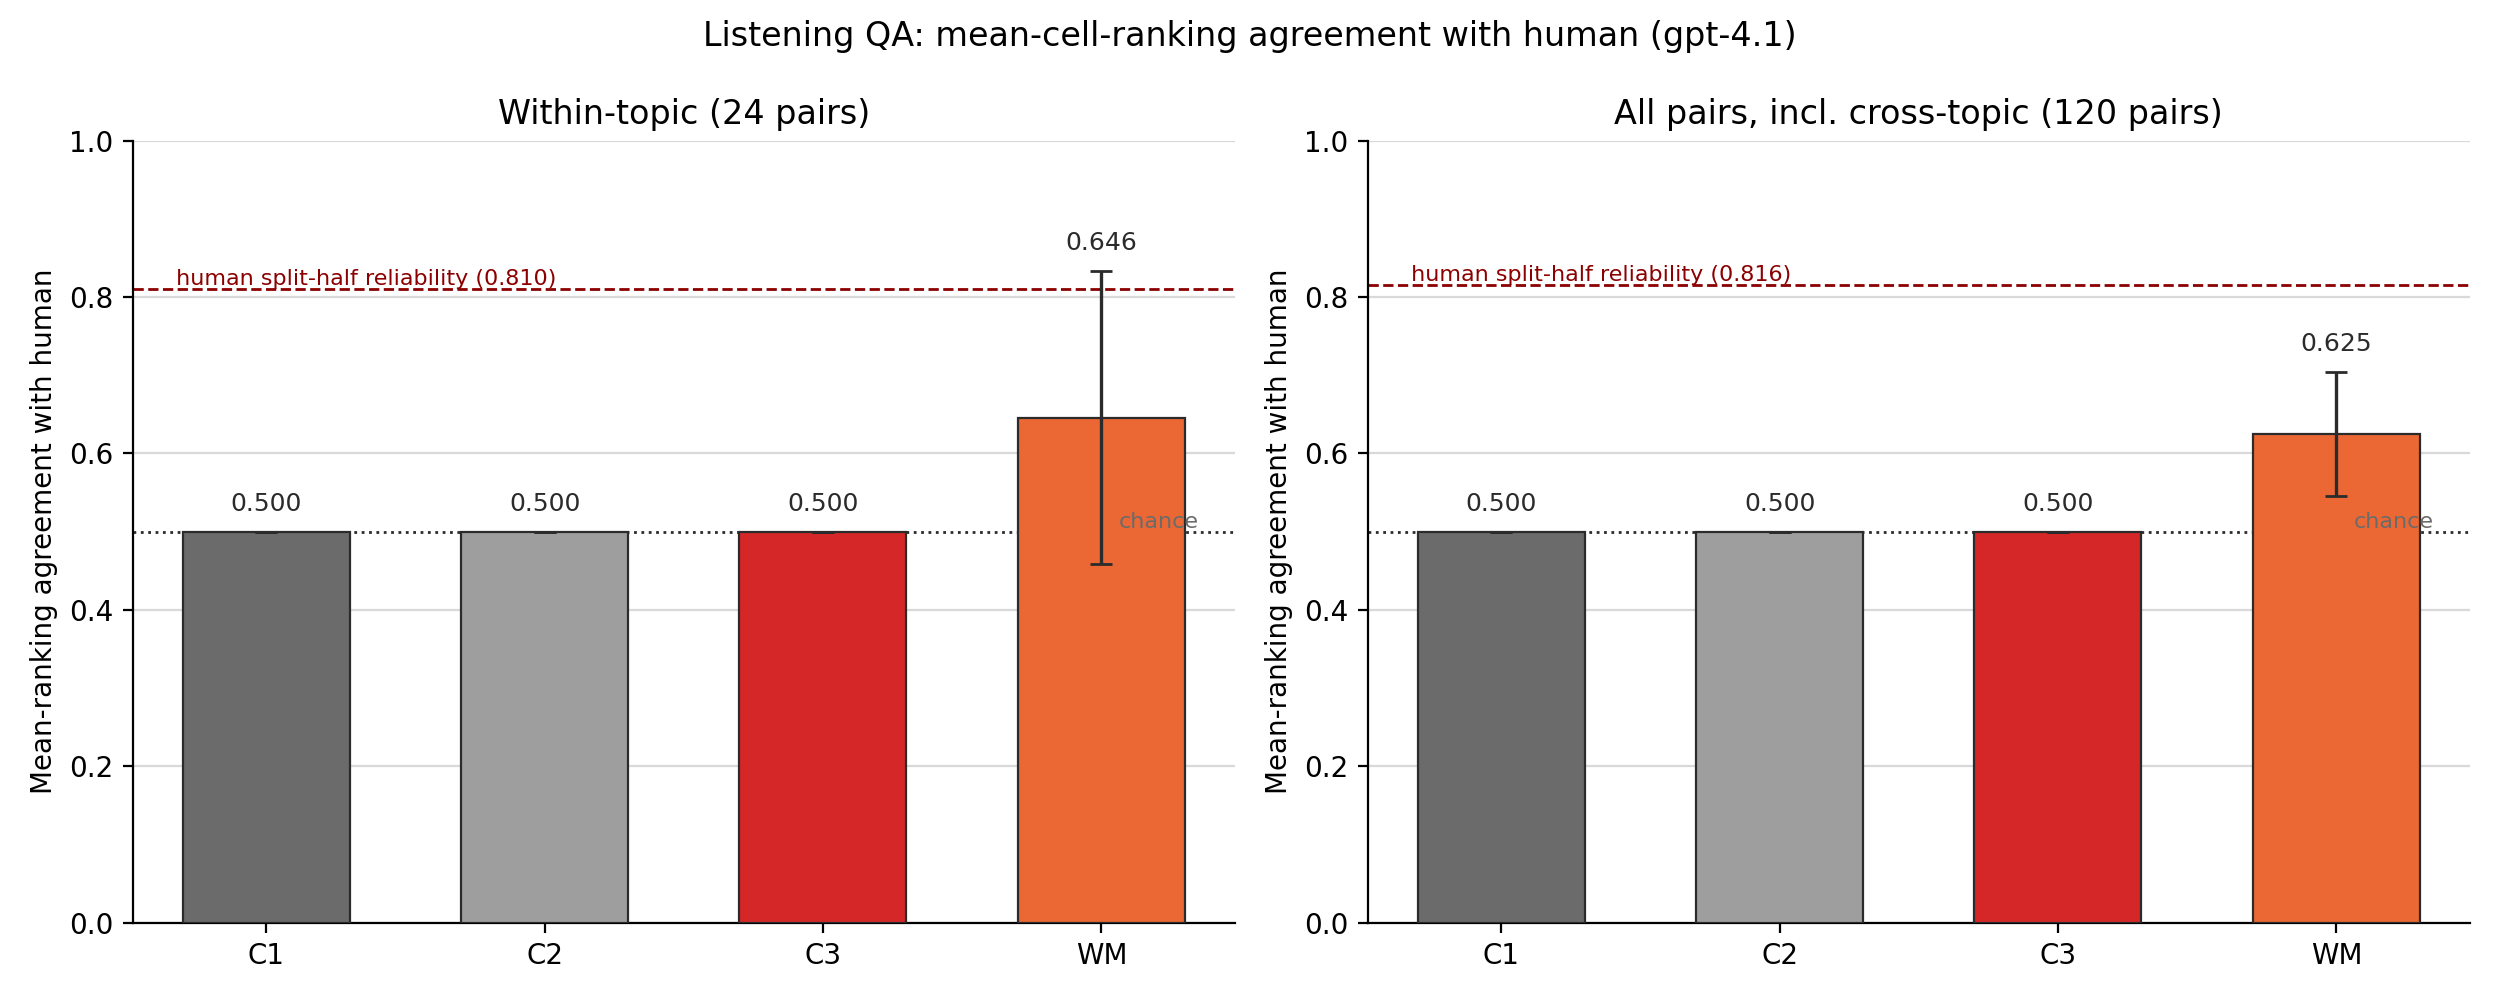
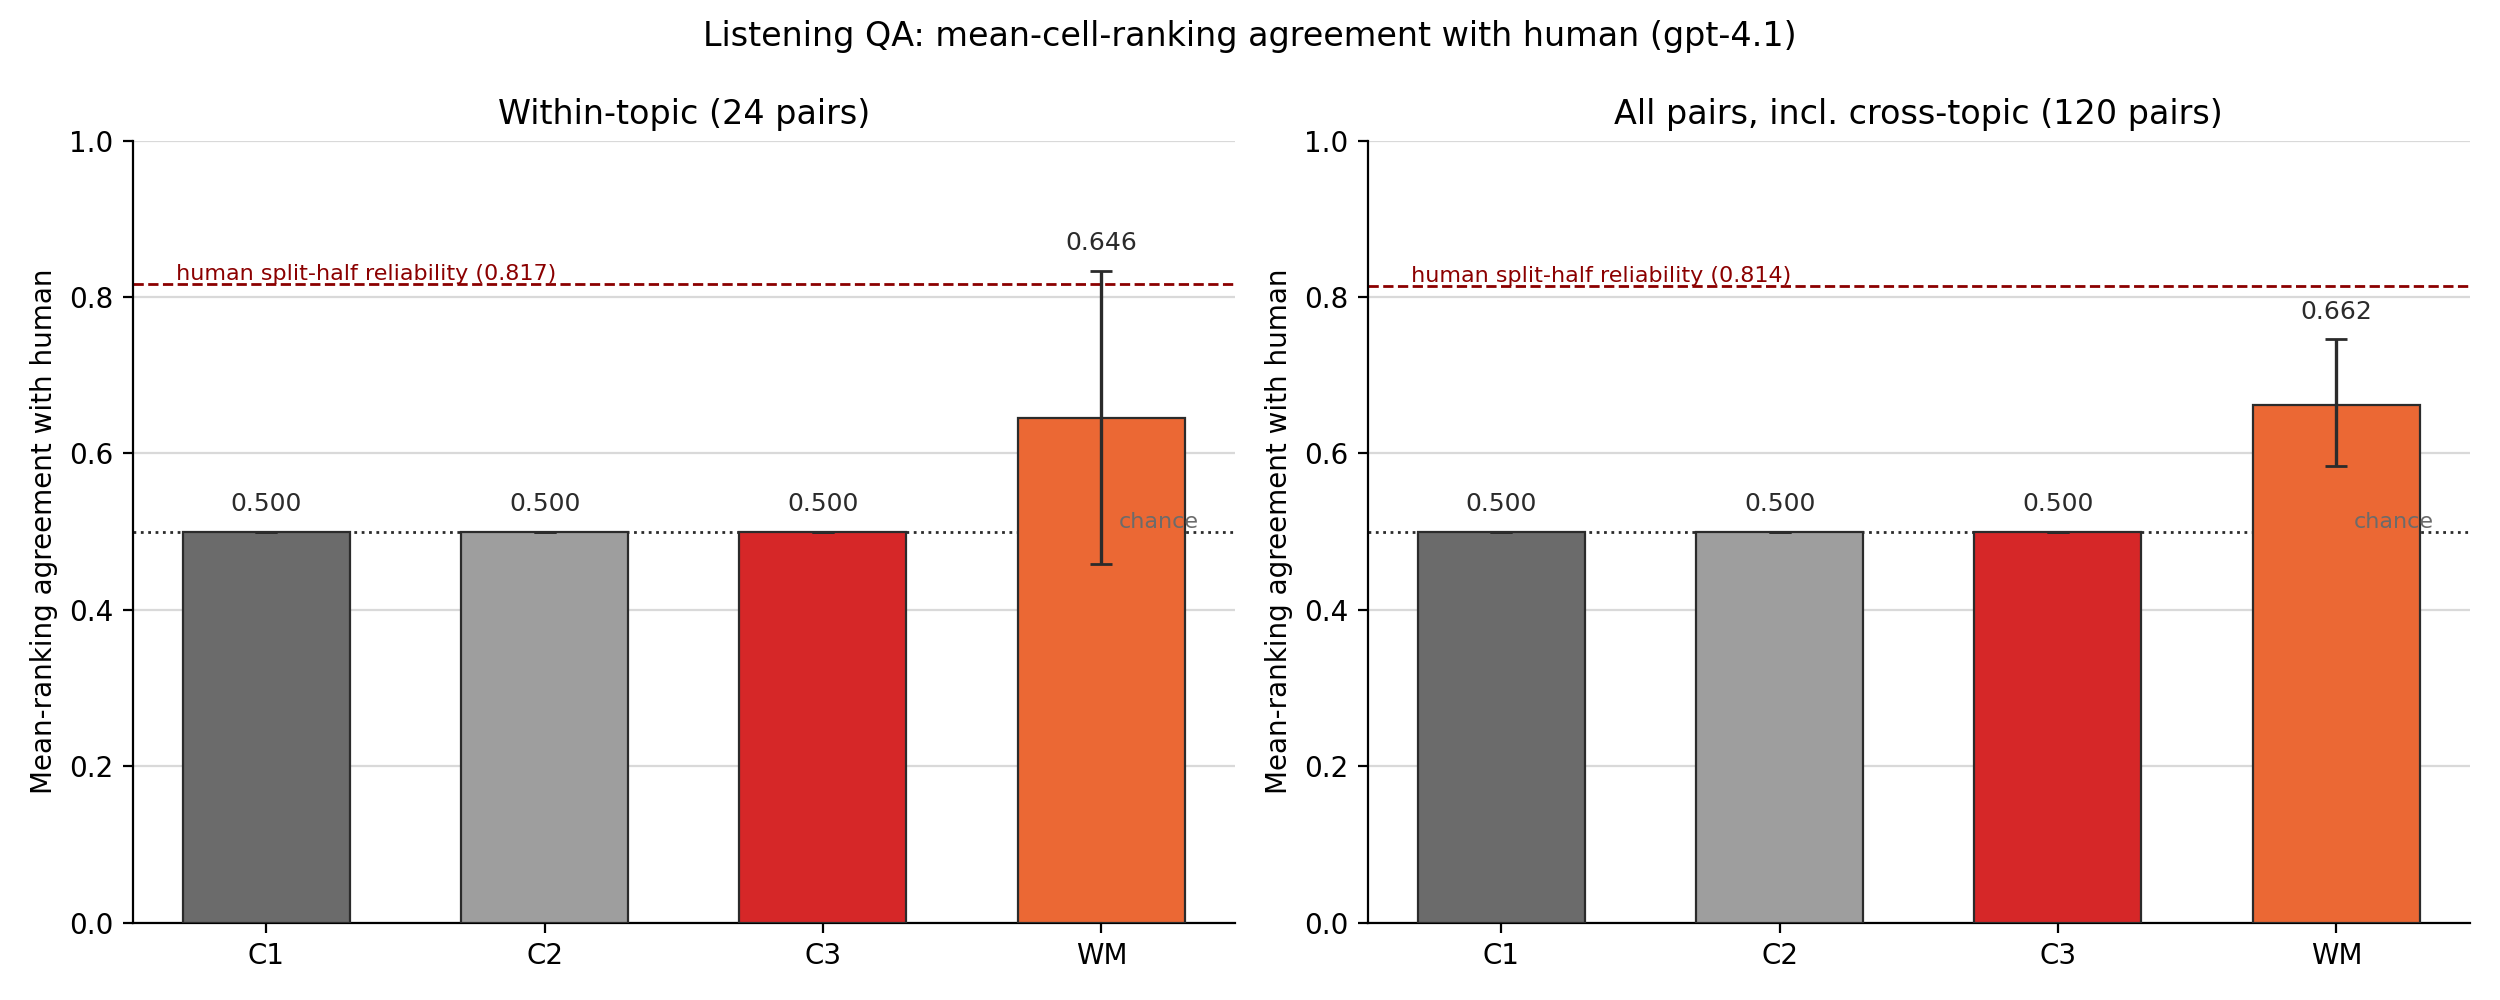
Switch level-pair preference from mean comparison to Mann-Whitney U (PS)
Replaces comparing per-cell means with the exact Mann-Whitney probability of
superiority (PS = U / (n_a * n_b)) computed on each cell's full raw per-trial
distribution. This is the closed-form version of what the individual-sample-
draw method already approximates by Monte Carlo, so it uses each cell's full
variance instead of collapsing to a single number, without introducing
resampling noise. Same tie=0.5 scoring convention as before (PS==0.5).

Claude-Session: https://claude.ai/code/session_01MUstYkbzcGijHmqYVCh4C7

diff --git a/application/listening_qa/mean_level_pair_alignment.py b/application/listening_qa/mean_level_pair_alignment.py
@@ -1,17 +1,19 @@
 #!/usr/bin/env python3
-"""Mean-based level-pair preference alignment (listening QA).
+"""Rank-based (Mann-Whitney U) level-pair preference alignment (listening QA).
 
-Variant of ``level_pair_preference_alignment.py`` that compares CELL MEANS
-instead of drawing individual samples: for each topic, for each of the
-C(4,2)=6 level pairs, take mean(topic, level_a) and mean(topic, level_b) for
-both human and model, and check whether the model's mean-ranking matches the
-human's mean-ranking. Deterministic (no resampling, no RNG) -- one score per
-(topic, level_pair, condition) rather than a distribution over draws.
+Variant of ``level_pair_preference_alignment.py`` that compares two cells by
+their FULL raw per-trial distributions via the Mann-Whitney U probability of
+superiority, PS = U / (n_a * n_b) -- the probability a random draw from cell A
+beats a random draw from cell B (ties count as 0.5 pairwise) -- instead of
+either collapsing each cell to a single mean or drawing one random sample per
+repetition (the Monte Carlo approximation used by
+``level_pair_preference_alignment.py``). PS is the closed-form, exact version
+of that same estimand, so it fully uses each cell's variance without ever
+reducing to a mean and without resampling noise. Deterministic (no RNG) --
+one score per (topic, level_pair, condition).
 
-A tie (equal means, on either side) scores 0.5 rather than being coin-flipped
-or excluded -- the standard convention for ties in concordance/agreement
-metrics (same expected value as a coin flip, but the point estimate doesn't
-depend on a seed).
+A tie (PS == 0.5 on either side) scores 0.5 rather than being coin-flipped or
+excluded -- the standard convention for ties in concordance/agreement metrics.
 
 Two scopes:
 - ``within_topic`` (default): base pairs are C(4,2)=6 level pairs x 4 topics = 24,
@@ -53,18 +55,47 @@ DEFAULT_WM_JSONL = (
 )
 
 
-def _mean_or_none(vals: list[float] | None) -> float | None:
-    return float(np.mean(vals)) if vals else None
+def _rankdata(values: np.ndarray) -> np.ndarray:
+    """Average ranks (1-indexed), ties get the mean of the ranks they span."""
+    order = np.argsort(values, kind="mergesort")
+    sorted_vals = values[order]
+    ranks = np.empty(len(values), dtype=np.float64)
+    i = 0
+    while i < len(sorted_vals):
+        j = i
+        while j < len(sorted_vals) and sorted_vals[j] == sorted_vals[i]:
+            j += 1
+        avg_rank = (i + 1 + j) / 2.0  # mean of ranks i+1..j (1-indexed)
+        ranks[order[i:j]] = avg_rank
+        i = j
+    return ranks
 
 
-def mean_preference(mean_a: float | None, mean_b: float | None) -> str | None:
-    """Which side the higher mean prefers: ``"A"``, ``"B"``, or ``"TIE"``
-    (equal means). ``None`` only if either side is missing (no data)."""
-    if mean_a is None or mean_b is None:
+def mannwhitney_ps(vals_a: list[float] | None, vals_b: list[float] | None) -> float | None:
+    """Probability of superiority PS = U / (n_a * n_b): the probability a random
+    draw from ``vals_a`` exceeds a random draw from ``vals_b`` (ties = 0.5).
+    ``None`` if either side has no data."""
+    if not vals_a or not vals_b:
         return None
-    if mean_a > mean_b:
+    a = np.asarray(vals_a, dtype=np.float64)
+    b = np.asarray(vals_b, dtype=np.float64)
+    combined = np.concatenate([a, b])
+    ranks = _rankdata(combined)
+    n_a = a.size
+    r_a = ranks[:n_a].sum()
+    u_a = r_a - n_a * (n_a + 1) / 2.0
+    return float(u_a / (n_a * b.size))
+
+
+def mannwhitney_preference(vals_a: list[float] | None, vals_b: list[float] | None) -> str | None:
+    """Which side the Mann-Whitney U probability of superiority prefers:
+    ``"A"``, ``"B"``, or ``"TIE"`` (PS == 0.5). ``None`` if either side has no data."""
+    ps = mannwhitney_ps(vals_a, vals_b)
+    if ps is None:
+        return None
+    if ps > 0.5:
         return "A"
-    if mean_b > mean_a:
+    if ps < 0.5:
         return "B"
     return "TIE"
 
@@ -115,20 +146,20 @@ def run_mean_alignment(
     }
 
     for (ta, la), (tb, lb) in base_pairs:
-        h_mean_a = _mean_or_none((human.get(ta) or {}).get(la))
-        h_mean_b = _mean_or_none((human.get(tb) or {}).get(lb))
-        h_side = mean_preference(h_mean_a, h_mean_b)
+        h_vals_a = (human.get(ta) or {}).get(la)
+        h_vals_b = (human.get(tb) or {}).get(lb)
+        h_side = mannwhitney_preference(h_vals_a, h_vals_b)
+        h_ps = mannwhitney_ps(h_vals_a, h_vals_b)
         pair_key = f"{ta}:{la}_vs_{tb}:{lb}"
         for c in eval_conditions:
             m_stats = llm.get(c, {})
-            m_mean_a = _mean_or_none((m_stats.get(ta) or {}).get(la))
-            m_mean_b = _mean_or_none((m_stats.get(tb) or {}).get(lb))
-            m_side = mean_preference(m_mean_a, m_mean_b)
+            m_vals_a = (m_stats.get(ta) or {}).get(la)
+            m_vals_b = (m_stats.get(tb) or {}).get(lb)
+            m_side = mannwhitney_preference(m_vals_a, m_vals_b)
+            m_ps = mannwhitney_ps(m_vals_a, m_vals_b)
             row = {
-                "human_mean_a": h_mean_a,
-                "human_mean_b": h_mean_b,
-                "model_mean_a": m_mean_a,
-                "model_mean_b": m_mean_b,
+                "human_ps": h_ps,
+                "model_ps": m_ps,
                 "human_pref": h_side,
                 "model_pref": m_side,
             }
@@ -153,7 +184,7 @@ def run_mean_alignment(
         per_condition[c]["agreement"] = (per_condition[c]["score_sum"] / n) if n else None
 
     return {
-        "method": f"mean_cell_ranking_{scope}",
+        "method": f"mannwhitney_ps_{scope}",
         "scope": scope,
         "n_topics": len(topics),
         "n_base_comparisons": len(base_pairs),
@@ -182,9 +213,9 @@ def bootstrap_ci_agreement(
 def mean_split_half_baseline(
     human_csv: Path, *, scope: str = "within_topic", n_splits: int = 20, base_seed: int = 42
 ) -> float:
-    """Human split-half reliability ceiling for the mean-ranking method: split
+    """Human split-half reliability ceiling for the Mann-Whitney PS method: split
     participants into two random halves, treat half A as ground truth and half B
-    as a synthetic model, and run the same mean-cell-ranking comparison. Averaged
+    as a synthetic model, and run the same rank-based comparison. Averaged
     over ``n_splits`` independent random splits."""
     import random as _random
 
